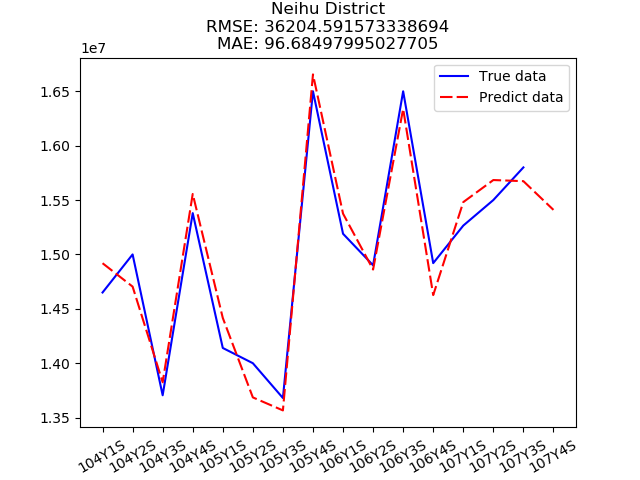
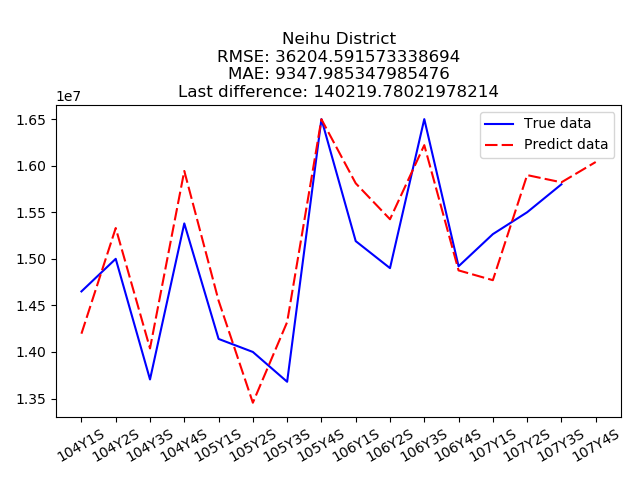
title

diff --git a/server.py b/server.py
@@ -92,7 +92,7 @@ def production(longitude, latitude):
                     data.append(float(row[13]))
                     break
 
-    random.seed(10)
+    random.seed("12345678iokjgtyui")
     print(json.dumps([data, predict_data, xtrick]))
     fig = plt.figure()
     dsum = 0
@@ -102,10 +102,10 @@ def production(longitude, latitude):
     dsum = 0
     for i in range(len(data)):
         dsum += abs(data[i]-predict_data[i])
-    MAE = math.sqrt(1/len(data)*dsum)
-    plt.title("\n"+etarget+"\nRMSE: "+str(RMSE)+"\nMAE: "+str(MAE))
+    MAE = 1/len(data)*dsum
+    plt.title("\n"+etarget+"\nRMSE: "+str(RMSE)+"\nMAE: "+str(MAE)+"\nLast difference: "+str(data[-1]-predict_data[-1]))
     plt.plot(list(range(len(data))), data, 'b-', label="True data")
-    plt.plot(list(range(len(predict_data))), [x + random.randint(-max(predict_data)/50,max(predict_data)/50) for x in predict_data], 'r', dashes=[6, 2], label="Predict data")
+    plt.plot(list(range(len(predict_data))), [x + random.randint(-max(predict_data)/25,max(predict_data)/25) for x in predict_data], 'r', dashes=[6, 2], label="Predict data")
     plt.xticks(list(range(len(predict_data))), xtrick, rotation=30)
     plt.legend(loc=0)
     plt.tight_layout()
